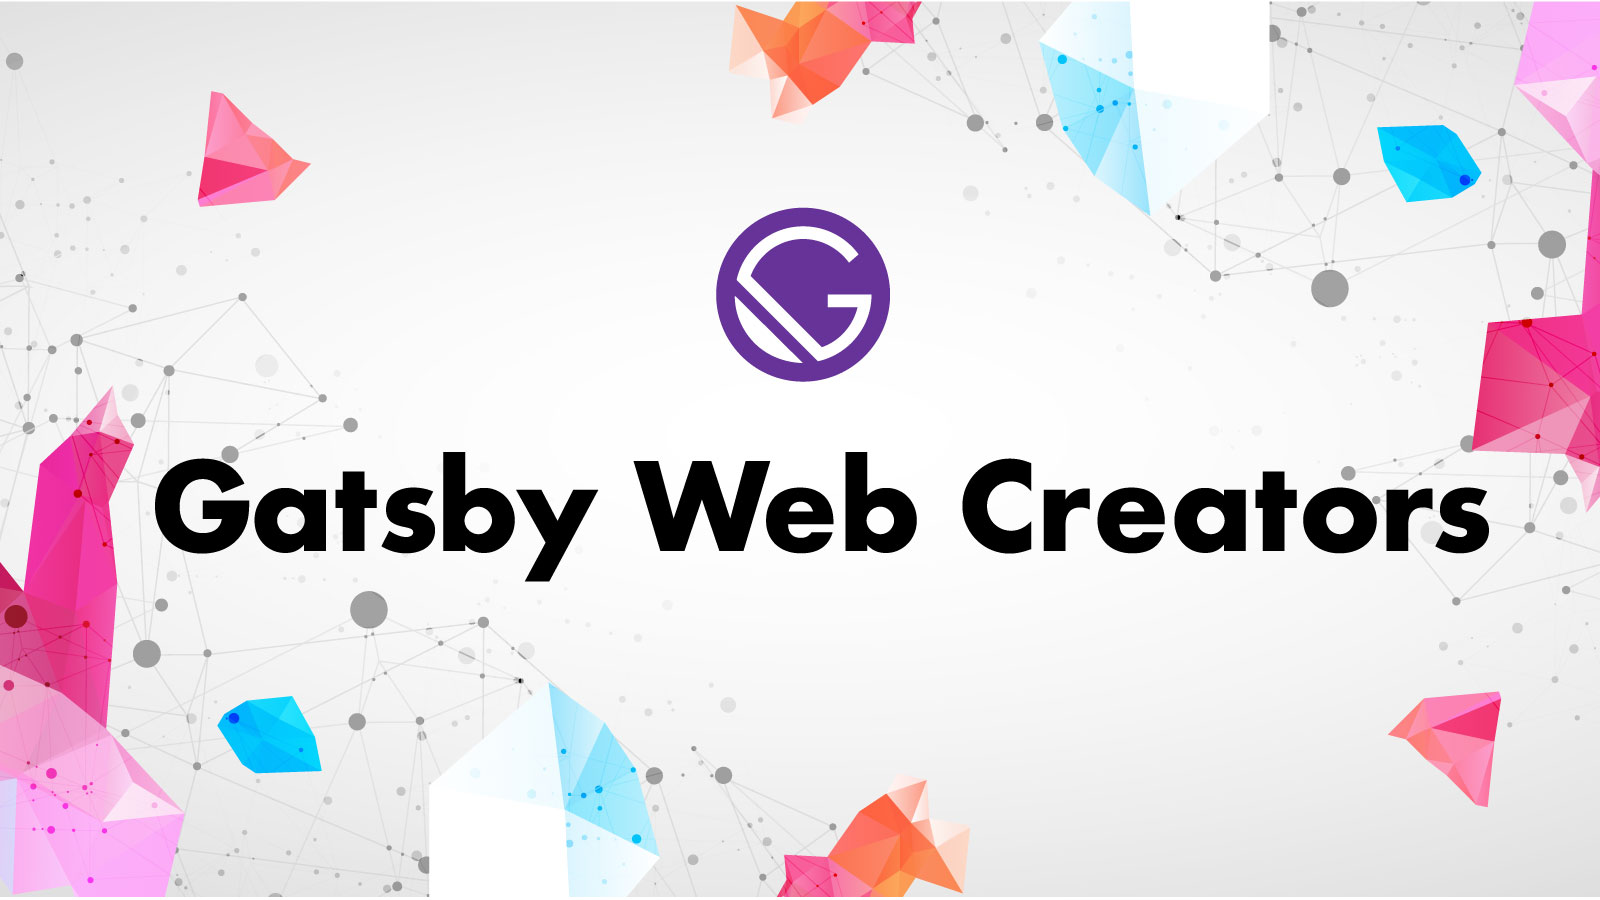
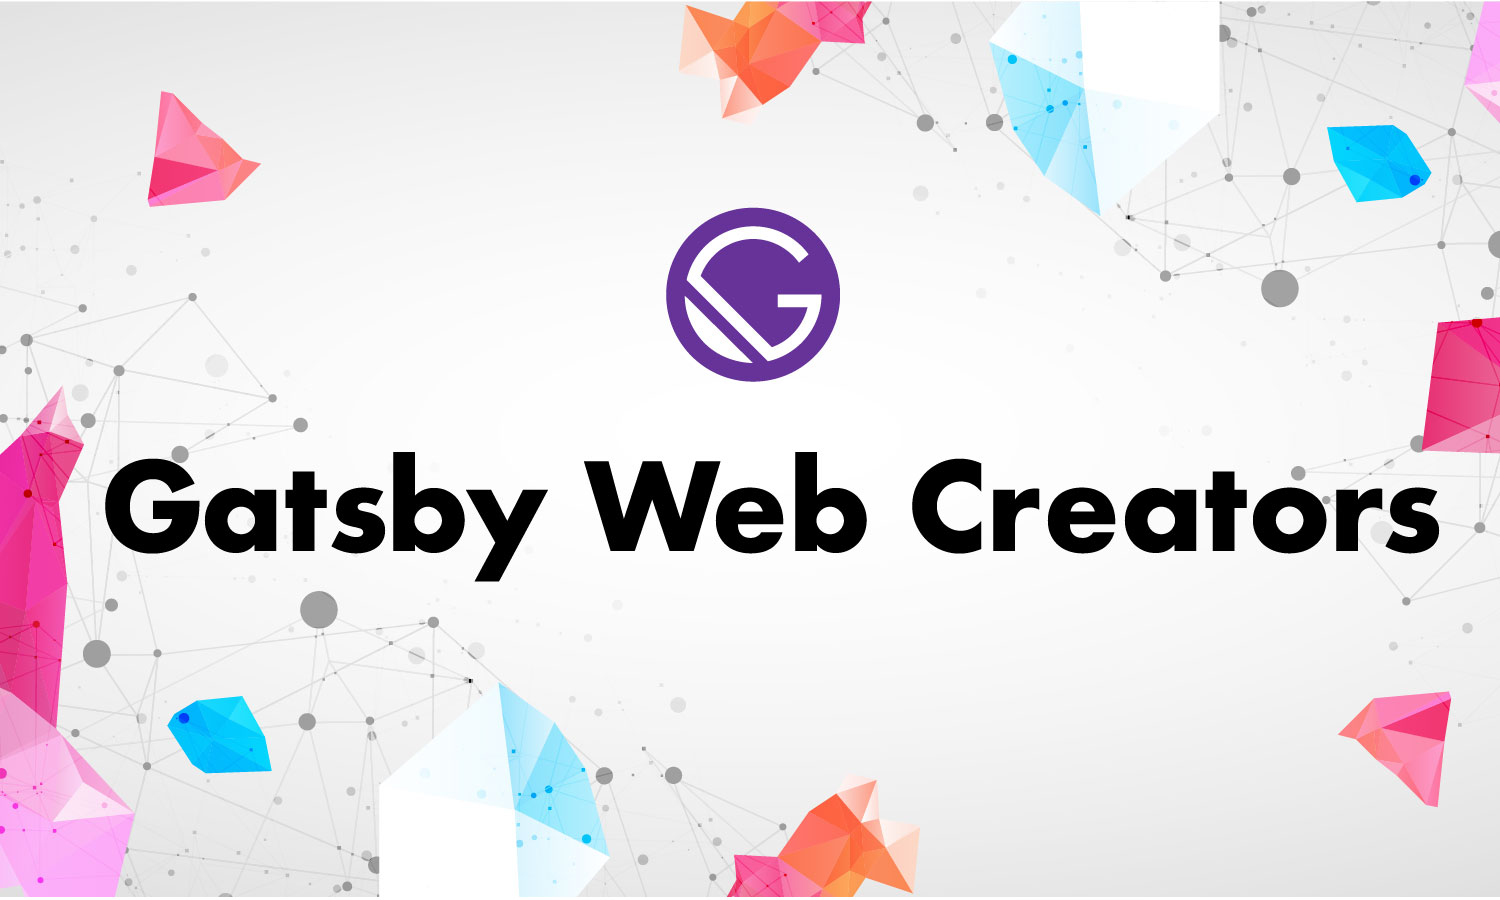
keep resize for backcompat, downsize img to 1500

diff --git a/www/src/templates/template-blog-post.js b/www/src/templates/template-blog-post.js
@@ -249,7 +249,7 @@ export const pageQuery = graphql`
         tags
         image {
           childImageSharp {
-            resize(width: 1500) {
+            resize(width: 1500, height: 1500) {
               src
             }
             fluid(maxWidth: 786) {
